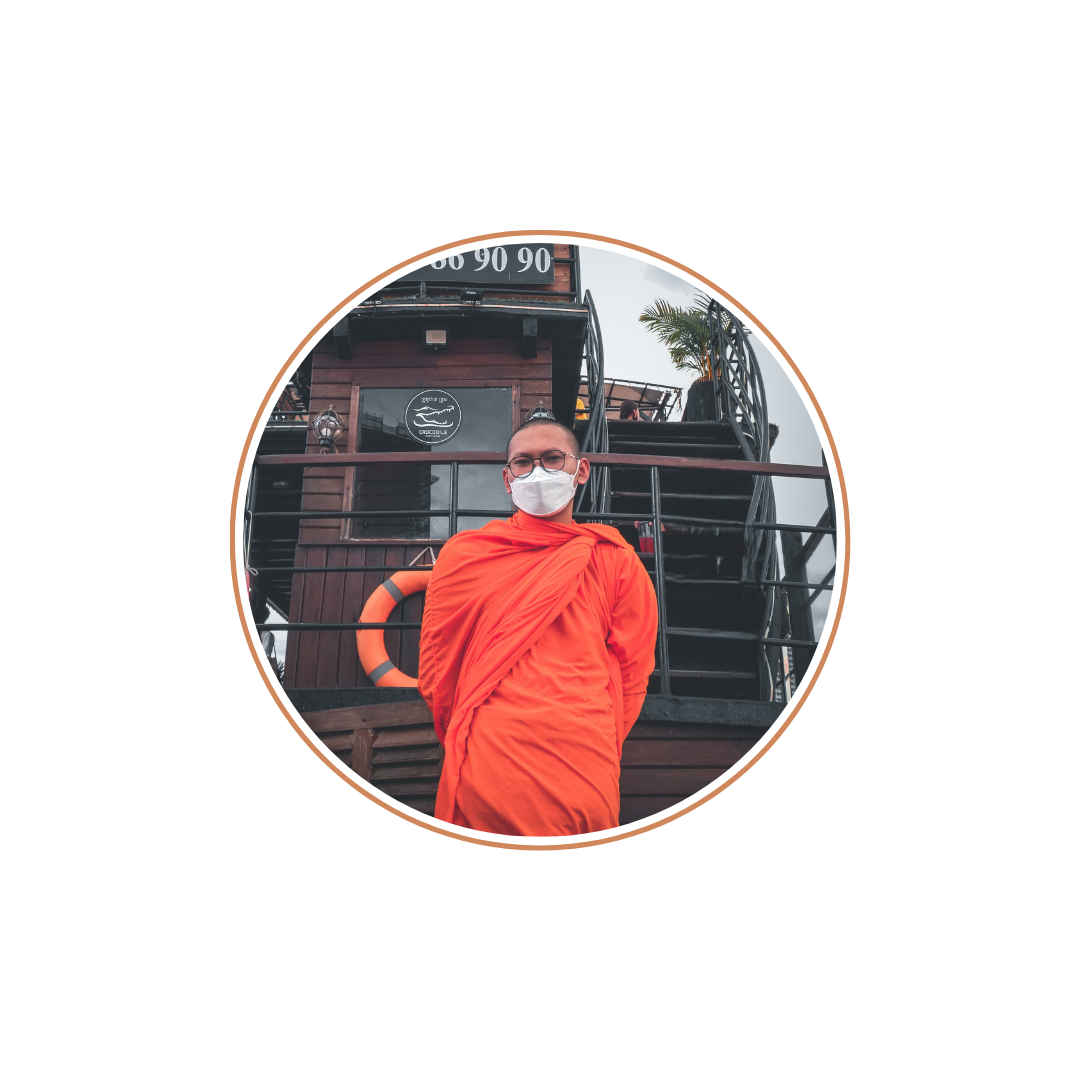
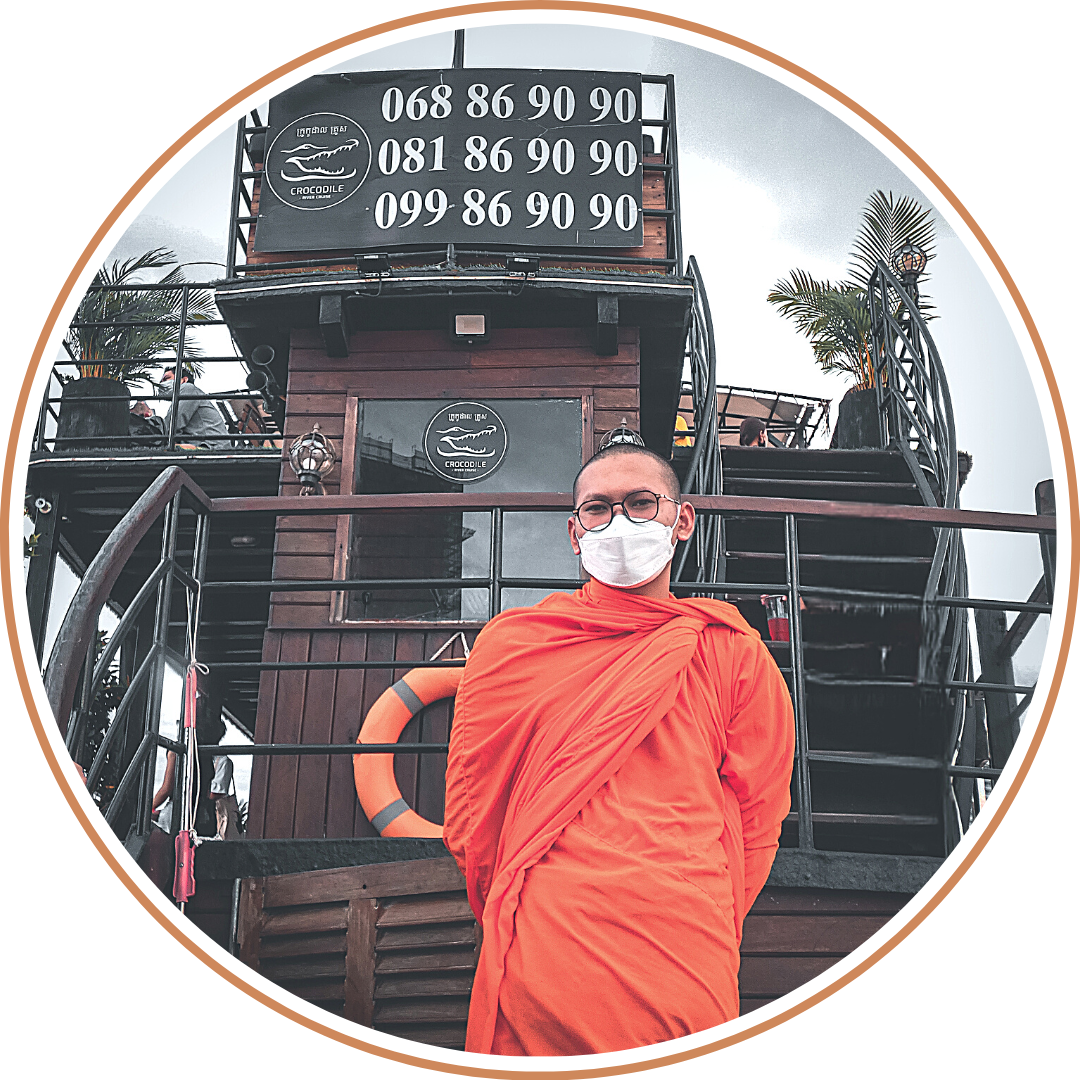
Addst

diff --git a/Style/style.css b/Style/style.css
@@ -1,5 +1,30 @@
+/* .container {
+  flex-direction: row;
+}
+@media (max-width: 600px) {
+  .container {
+    flex-direction: column;
+  }
+} */
 /* -----------> HEAD <----------- */
+body {
+  width: auto;
+  margin: 4rem 3rem 3rem 3rem;
+  padding: 0;
+}
 
+button {
+  position: absolute;
+  top: 50%;
+  left: 50%;
+  transform: translate(-50%, -50%);
+  padding: 10px;
+  border: none;
+  outline: none;
+  font-size: 10px;
+  text-transform: uppercase;
+  cursor: pointer;
+}
 .center {
   margin-top: 1rem;
   display: flex;
@@ -7,22 +32,29 @@
   align-items: center;
   flex-direction: row;
   gap: 5rem;
-  /* justify-content: space-between; */
 }
+/* =============================================> List */
 .center a {
   text-decoration: none;
   font-family: sans-serif;
   font-size: 15px;
   color: #f09819;
   font-weight: bold;
+  transition: 0.2s;
 }
-
 .center a:hover {
-  color: #ff5858;
+  padding: 0.23rem 1rem;
+  border-radius: 5px;
+  background: #e0e0e0;
+  box-shadow: -5px -5px 10px #bababa, 5px 5px 10px #ffffff;
 }
-/* =========================================> Profile-top */
+/* ====================================================> Profile-top */
 .profile {
-  width: 200px;
+  margin: 2rem 0 2rem 0;
+  width: 150px;
+  border-radius: 85px;
+  background: #e0e0e0;
+  box-shadow: 10px 10px 20px #b3b3b3, -10px -10px 20px #ffffff;
 }
 .center-col {
   display: flex;
@@ -31,9 +63,16 @@
   flex-direction: column;
 }
 .center-col h2 {
-  margin-top: -20px;
+  padding: 0 15px 0 15px;
   font-family: KonKhmerSURIN;
   color: #29323c;
+  border-radius: 38px;
+  background: linear-gradient(225deg, #ff585890, #f096197c);
+  box-shadow: -23px 23px 57px #bababa, 23px -23px 57px #ffffff;
+}
+.center-col h2:hover {
+  color: #ffffff;
+  cursor: pointer;
 }
 .P-head {
   margin-top: -20px;
@@ -43,21 +82,23 @@
   text-align: justify;
   color: #29323cb6;
 }
-/* ===================================================> Center-col */
-.center-col p .Chhaya {
+/* ===========================================================> Center-col */
+#h1-size{
+font-size: 20px;
+width: 70%;
+}
+.center-col h1 .Chhaya {
   font-family: KonKhmerSURIN;
   color: #ff5858;
 }
-.center-col p .Chhaya:hover {
-  font-family: KonKhmerSURIN;
+.center-col h1 .Chhaya:hover {
   color: #f09819;
 }
-.center-col p .bbu {
+.center-col h1 .bbu {
   font-family: KonKhmerSURIN;
   color: #ff5858;
 }
-.center-col p .bbu:hover {
-  font-family: KonKhmerSURIN;
+.center-col h1 .bbu:hover {
   color: #4facfe;
 }
 
@@ -68,26 +109,31 @@
   align-items: center;
   flex-direction: row;
 }
-img {
-  width: 230px;
+.profile-body img {
+  margin: 30px 0px 30px 0;
+  width: 150px;
+  border-radius: 50%;
+  background: #e0e0e0;
+  box-shadow: -19px 19px 38px #bababa, 19px -19px 38px #ffffff;
+  flex-direction: row;
+}
+
+.profile-body img:hover {
+  cursor: pointer;
+  background: #ff5858a5;
 }
 .gap {
   gap: 5rem;
 }
 .P-body {
-  margin-top: -20px;
+  margin-top: 20px;
   font-family: KonKhmerSURIN;
   font-size: 1rem;
   width: 70%;
   text-align: justify;
   color: #29323cb6;
 }
-.underline-h1 {
-  text-decoration: underline;
-}
-#banner-foot {
-  width: 66rem;
-}
+
 .A-center {
   margin-top: 2rem;
   display: flex;
@@ -100,4 +146,22 @@ img {
   width: 70%;
   text-align: justify;
   color: #4facfe;
+}
+@media (max-width: 600px),(min-width: 500px) {
+  .profile-body{
+    flex-direction: column;
+  }
+  #h1-size b{
+    font-size: 1rem;
+    text-align: center;
+  }
+  #GOOD{
+    font-size: 1.2rem;;
+  }
+  .center-col{
+    display: flex;
+    justify-content: center;
+    align-items: center;
+    flex-direction: column;
+  }
 }

diff --git a/index.html b/index.html
@@ -16,19 +16,19 @@
   <body>
     <!--  HEAD -->
     <div class="center">
-      <a href="index.html">HOME</a>
-      <a href="About.html">ABOUT</a>
-      <a href="">Blog</a>
+      <a class="HOME" href="index.html">HOME</a>
+      <a class="ABOUT" href="About.html">ABOUT</a>
+      <a class="Blogs" href="">Blog</a>
     </div>
     <!-- Body -->
     <div class="center-col">
       <img src="./Images/LOGO.png" class="profile" />
-      <h2 id="GOOD" class="heading1" >"Good morning" From CHHAYA!</h2>
-      <p>
+      <h2 id="GOOD" class="heading1">"Good morning" From CHHAYA!</h2>
+      <h1 id="h1-size">
         My name is <b class="Chhaya"> "គង់ ឆៃយ៉ា - KONG CHHAYA", </b>a second
         year student from
         <b class="bbu">Build Bright University</b>
-      </p>
+      </h1>
       <br />
       <p class="P-head">
         Hi, I am a web developer and I am making this website for me. I love
@@ -49,7 +49,7 @@
         industry but now I have job security for life.
       </p>
       <div class="profile-body gap">
-        <img src="./Images/LO1.png" />
+        <img  src="./Images/LO1.png" />
         <img src="./Images/LO2.png" />
         <img src="./Images/LO3.png" />
       </div>
@@ -70,8 +70,6 @@
         how to program, I have found it can be challenging and frustrating at
         times. It is also a topic of concern for many people, who are surprised
         by my decision to learn how to code.
-        <h1 class="underline-h1">Something You Need To Know</h1>
-        <img src="./Images/banner.gif" id="banner-foot">
       </p>
     </div>
 <!-- Link javaSript And Jquery -->

diff --git a/JavaScript/Script.js b/JavaScript/Script.js
@@ -3,7 +3,7 @@ $(document).ready(function () {
   const hour = date.getHours();
   let message = " ";
   if (hour <= 12) {
-    message = "Good Moring";
+    message = "Good Morning";
   }
   if (hour > 12) {
     message = "Good Afternoon";
@@ -11,7 +11,10 @@ $(document).ready(function () {
   if (hour > 17) {
     message = "Good Evening";
   }
+  if (hour > 21) {
+    message = "Good Night";
+  }
   $("#GOOD")
     .empty()
-    .append( " '' " + message + " '' " + " From CHHAYA");
+    .append(" '' " + message + " '' " + " From CHHAYA");
 });
